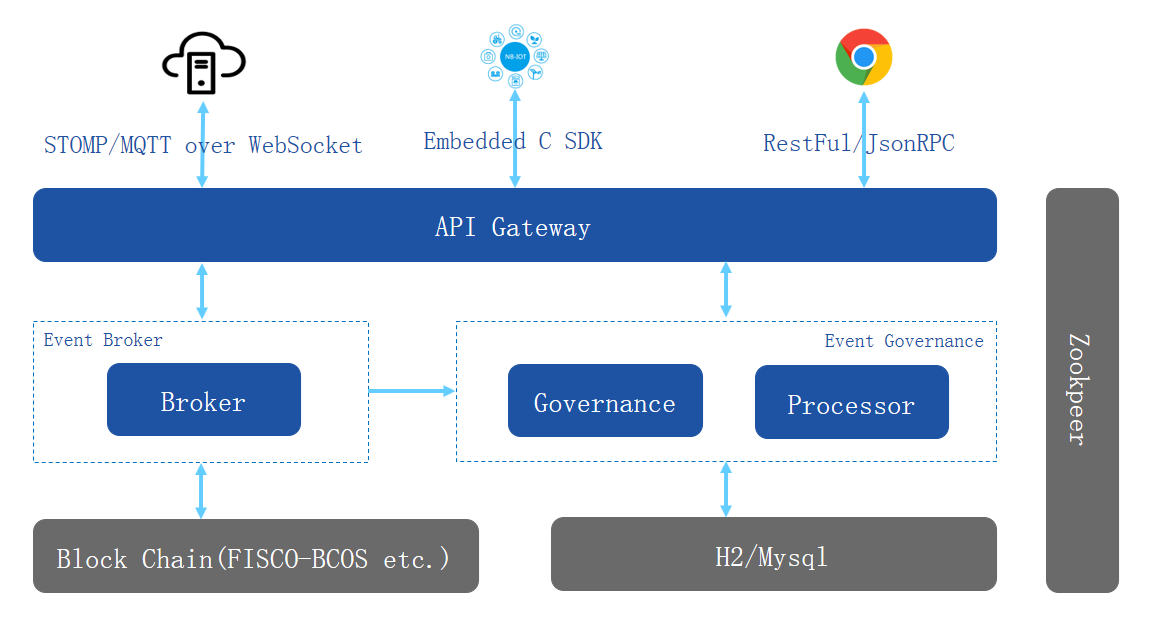
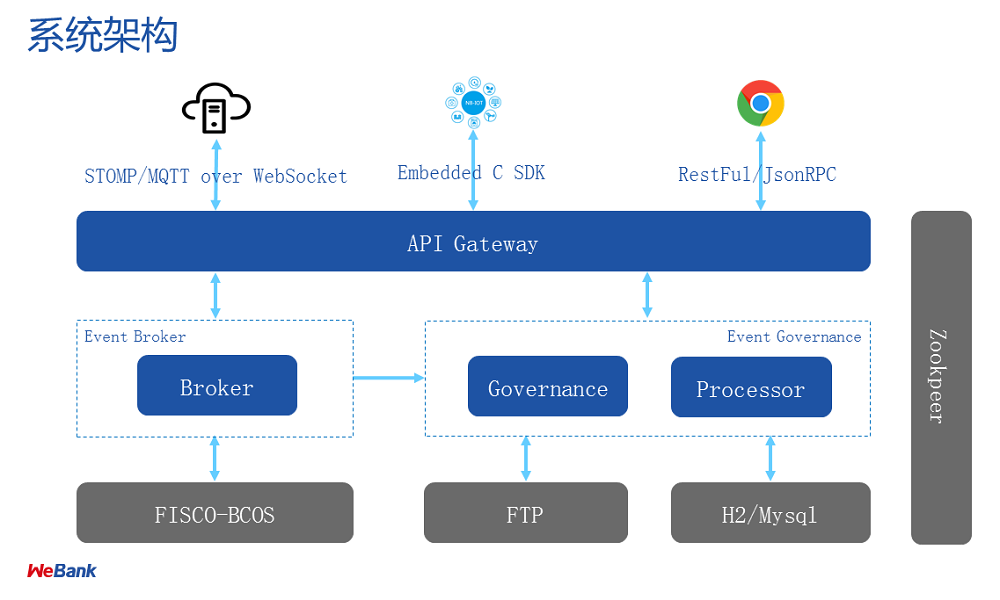
flush to 1.3.0 (#171)

diff --git a/docs/introduction/architecture.md b/docs/introduction/architecture.md
@@ -1,26 +1,24 @@
 ## 架构说明
 
-`WeEvent`主要使用[Spring Boot](https://spring.io/projects/spring-boot)框架开发。既支持单独的`weevent-core.jar `包集成，也支持以独立服务的方式部署。
+`WeEvent`服务使用[Spring Boot](https://spring.io/projects/spring-boot)框架开发。业务集成上，既支持直接加载独立的`JAR`包使用服务，例如`weevent-core.jar `、`weevent-file.jar`等。也支持通过代理服务来提供功能，例如`weevent-broker`、`weevent-governance`、`weevent-processor`。
 
-以独立服务部署的方式中，有`Broker`、`Governance`、`Processor`、`API Gateway`等子服务。
+### 各子块服务简介
 
-### 子服务简介
-
-- Broker
+- weevent-broker
 
   `WeEvent`的事件代理模块，提供核心的事件发布订阅`Pub`/`Sub`以及`Topic`管理功能。
 
-  `Broker`就是`weevent-core.jar `的服务化，以支持各种协议接入。
+  `weevent-broker`就是`weevent-core.jar `的服务化，以支持各种协议接入。
 
-- Governance
+- weevent-governance
 
-  `WeEvent`的事件治理模块，提供一个`Web`管理端。支持区块链信息浏览、`Topic`事件治理、流计算等。
+  `WeEvent`的事件治理模块，提供一个`Web`管理端。支持区块链信息浏览、`Topic`事件治理、流计算、大文件传输等。
 
   使用数据库持久化相关数据，支持`H2`和`Mysql`。
 
-- Processor
+- weevent-processor
 
-    是`Governance`实时流计算功能中，规则引擎的分布式运行容器。
+    是`weevent-governance`实时流计算功能中，规则引擎的分布式运行容器。
     
 - API Gateway
 

diff --git a/docs/install/quickinstall.md b/docs/install/quickinstall.md
@@ -7,7 +7,7 @@
 ### Docker镜像安装
 
   ```bash
-  $ docker pull weevent/weevent:1.2.0; docker run -d -p 8080:8080 weevent/weevent:1.2.0 /root/run.sh
+  $ docker pull weevent/weevent:1.3.0; docker run -d -p 8080:8080 weevent/weevent:1.3.0 /root/run.sh
   ```
 
   `WeEvent`的镜像里包括了`FISCO-BCOS`网络，`WeEvent`服务的各个子模块以及各种依赖。
@@ -19,19 +19,19 @@
 
 - 获取安装包
 
-  从`github`下载安装包[weevent-1.2.0.tar.gz](https://github.com/WeBankFinTech/WeEvent/releases/download/v1.2.0/weevent-1.2.0.tar.gz)，并且解压到`/tmp/` 。
+  从`github`下载安装包[weevent-1.3.0.tar.gz](https://github.com/WeBankFinTech/WeEvent/releases/download/v1.3.0/weevent-1.3.0.tar.gz)，并且解压到`/tmp/` 。
 
   ```shell
   $ cd /tmp/
-  $ wget https://github.com/WeBankFinTech/WeEvent/releases/download/v1.2.0/weevent-1.2.0.tar.gz
-  $ tar -zxf weevent-1.2.0.tar.gz
+  $ wget https://github.com/WeBankFinTech/WeEvent/releases/download/v1.3.0/weevent-1.3.0.tar.gz
+  $ tar -zxf weevent-1.3.0.tar.gz
   ```
 
-  如果`github`下载速度慢，可以尝试[国内下载链接](https://www.fisco.com.cn/cdn/weevent/download/releases/v1.2.0/weevent-1.2.0.tar.gz)。
+  如果`github`下载速度慢，可以尝试[国内下载链接](https://www.fisco.com.cn/cdn/weevent/download/releases/v1.3.0/weevent-1.3.0.tar.gz)。
 解压后目录结构如下：
   
   ```shell
-  $ cd weevent-1.2.0/ 
+  $ cd weevent-1.3.0/ 
   $ tree -L 2
   .
   ├── bin

diff --git a/docs/install/module/governance.md b/docs/install/module/governance.md
@@ -32,20 +32,20 @@
 
 ### 获取安装包
 
-从`github`下载安装包[weevent-governance-1.2.0.tar.gz](https://github.com/WeBankFinTech/WeEvent/releases/download/v1.2.0/weevent-governance-1.2.0.tar.gz)，并且解压到`/usr/local/weevent/`下。
+从`github`下载安装包[weevent-governance-1.3.0.tar.gz](https://github.com/WeBankFinTech/WeEvent/releases/download/v1.3.0/weevent-governance-1.3.0.tar.gz)，并且解压到`/usr/local/weevent/`下。
 
 ```shell
 $ cd /usr/local/weevent/
-$ wget https://github.com/WeBankFinTech/WeEvent/releases/download/v1.2.0/weevent-governance-1.2.0.tar.gz
-$ tar -xvf weevent-governance-1.2.0.tar.gz
+$ wget https://github.com/WeBankFinTech/WeEvent/releases/download/v1.3.0/weevent-governance-1.3.0.tar.gz
+$ tar -xvf weevent-governance-1.3.0.tar.gz
 ```
 
-如果`github`下载速度慢，可以尝试[国内下载链接](https://www.fisco.com.cn/cdn/weevent/download/releases/v1.2.0/weevent-governance-1.2.0.tar.gz)。
+如果`github`下载速度慢，可以尝试[国内下载链接](https://www.fisco.com.cn/cdn/weevent/download/releases/v1.3.0/weevent-governance-1.3.0.tar.gz)。
 
 解压后的目录结构如下
 
 ```
-$ cd ./weevent-governance-1.2.0
+$ cd ./weevent-governance-1.3.0
 $ tree -L 1
 .
 |-- apps

diff --git a/docs/install/module/processor.md b/docs/install/module/processor.md
@@ -33,20 +33,20 @@
 
 ### 获取安装包
 
-从`github`下载安装包[weevent-processor-1.2.0.tar.gz](https://github.com/WeBankFinTech/WeEvent/releases/download/v1.2.0/weevent-processor-1.2.0.tar.gz)，并且解压到`/usr/local/weevent/`下。
+从`github`下载安装包[weevent-processor-1.3.0.tar.gz](https://github.com/WeBankFinTech/WeEvent/releases/download/v1.3.0/weevent-processor-1.3.0.tar.gz)，并且解压到`/usr/local/weevent/`下。
 
 ```shell
 $ cd /usr/local/weevent/
-$ wget https://github.com/WeBankFinTech/WeEvent/releases/download/v1.2.0/weevent-processor-1.2.0.tar.gz
-$ tar -xvf weevent-processor-1.2.0.tar.gz
+$ wget https://github.com/WeBankFinTech/WeEvent/releases/download/v1.3.0/weevent-processor-1.3.0.tar.gz
+$ tar -xvf weevent-processor-1.3.0.tar.gz
 ```
 
-如果`github`下载速度慢，可以尝试[国内下载链接](https://www.fisco.com.cn/cdn/weevent/download/releases/v1.2.0/weevent-processor-1.2.0.tar.gz)。
+如果`github`下载速度慢，可以尝试[国内下载链接](https://www.fisco.com.cn/cdn/weevent/download/releases/v1.3.0/weevent-processor-1.3.0.tar.gz)。
 
 解压后的目录结构如下
 
 ```
-$ cd ./weevent-processor-1.2.0
+$ cd ./weevent-processor-1.3.0
 $ tree -L 1
 .
 |-- apps

diff --git a/docs/install/module/gateway.md b/docs/install/module/gateway.md
@@ -17,19 +17,19 @@
 
 ### 获取安装包
 
-从`github`下载安装包[weevent-gateway-1.2.0.tar.gz](https://github.com/WeBankFinTech/WeEvent/releases/download/v1.2.0/weevent-gateway-1.2.0.tar.gz)，并且解压到`/usr/local/weevent/`下。
+从`github`下载安装包[weevent-gateway-1.3.0.tar.gz](https://github.com/WeBankFinTech/WeEvent/releases/download/v1.3.0/weevent-gateway-1.3.0.tar.gz)，并且解压到`/usr/local/weevent/`下。
 
 ``` shell
 $ cd /usr/local/weevent/
-$ wget https://github.com/WeBankFinTech/WeEvent/releases/download/v1.2.0/weevent-gateway-1.2.0.tar.gz
-$ tar -zxf weevent-gateway-1.2.0.tar.gz
+$ wget https://github.com/WeBankFinTech/WeEvent/releases/download/v1.3.0/weevent-gateway-1.3.0.tar.gz
+$ tar -zxf weevent-gateway-1.3.0.tar.gz
 ```
-如果`github`下载速度慢，可以尝试[国内下载链接](https://www.fisco.com.cn/cdn/weevent/download/releases/v1.2.0/weevent-gateway-1.2.0.tar.gz)。
+如果`github`下载速度慢，可以尝试[国内下载链接](https://www.fisco.com.cn/cdn/weevent/download/releases/v1.3.0/weevent-gateway-1.3.0.tar.gz)。
 
 解压后的目录如下：
 
 ```
-$ cd ./weevent-gateway-1.2.0
+$ cd ./weevent-gateway-1.3.0
 $ tree  -L 1
 .
 |-- apps

diff --git a/docs/install/module/broker.md b/docs/install/module/broker.md
@@ -19,19 +19,19 @@
 
 ### 获取安装包
 
-从`github`下载安装包[weevent-broker-1.2.0.tar.gz](https://github.com/WeBankFinTech/WeEvent/releases/download/v1.2.0/weevent-broker-1.2.0.tar.gz)，并且解压到`/usr/local/weevent/`下。
+从`github`下载安装包[weevent-broker-1.3.0.tar.gz](https://github.com/WeBankFinTech/WeEvent/releases/download/v1.3.0/weevent-broker-1.3.0.tar.gz)，并且解压到`/usr/local/weevent/`下。
 
 ``` shell
 $ cd /usr/local/weevent/
-$ wget https://github.com/WeBankFinTech/WeEvent/releases/download/v1.2.0/weevent-broker-1.2.0.tar.gz
-$ tar -zxf weevent-broker-1.2.0.tar.gz
+$ wget https://github.com/WeBankFinTech/WeEvent/releases/download/v1.3.0/weevent-broker-1.3.0.tar.gz
+$ tar -zxf weevent-broker-1.3.0.tar.gz
 ```
-如果`github`下载速度慢，可以尝试[国内下载链接](https://www.fisco.com.cn/cdn/weevent/download/releases/v1.2.0/weevent-broker-1.2.0.tar.gz)。
+如果`github`下载速度慢，可以尝试[国内下载链接](https://www.fisco.com.cn/cdn/weevent/download/releases/v1.3.0/weevent-broker-1.3.0.tar.gz)。
 
 解压后的目录如下：
 
 ```
-$ cd ./weevent-broker-1.2.0
+$ cd ./weevent-broker-1.3.0
 $ tree  -L 1
 .
 |-- apps

diff --git a/docs/install/environment.md b/docs/install/environment.md
@@ -7,7 +7,7 @@
 | CPU      | 1核 1.5GHz        | 4核 2.4GHz                                                   |
 | 内存     | 2G                | 4GB                                                          |
 | 带宽     | 1M                | 5M                                                           |
-| Java     | Java(TM) 1.8      | 推荐`Oralce JDK`，如果是1.8.0.231及以上版本，在使用时都需要配置`jvm`参数` -Djdk.tls.namedGroups=”secp256k1”`<br />如果在`CentOS`中使用`Open JDK`，请先升级到`1.9` |
+| Java     | Java(TM) 1.8      | 推荐`Oralce JDK`，如果是1.8.0.231及以上版本，在使用时都需要配置`jvm`参数` -Djdk.tls.namedGroups="secp256k1"`<br />如果在`CentOS`中使用`Open JDK`，请先升级到`1.9` |
 | 操作系统 | 能正常运行JVM即可 | 快速安装Bash脚本在以下环境测试通过：<br />`CentOS7.2`、`Ubuntu16.04`、`RedHat7.4`<br />`Java`服务在以下环境测试通过：<br />`CentOS7.2`、`Ubuntu16.04`、`RedHat7.4`、`Windows7` |
 
 ### 第三方软件

diff --git a/docs/introduction/getting-start.md b/docs/introduction/getting-start.md
@@ -55,9 +55,9 @@
   ```bash
   $ cd ./weevent-build; ./package.sh
   Usage:
-      package master: ./package.sh --version 1.1.0
-      package tag: ./package.sh --tag v1.1.0 --version 1.1.0
-      package local: ./package.sh --tag local --version 1.1.0
+      package master: ./package.sh --version 1.3.0
+      package tag: ./package.sh --tag v1.3.0 --version 1.3.0
+      package local: ./package.sh --tag local --version 1.3.0
   ```
 
   支持编译`master`最新代码，某个`tag`代码，以及本地的代码。
